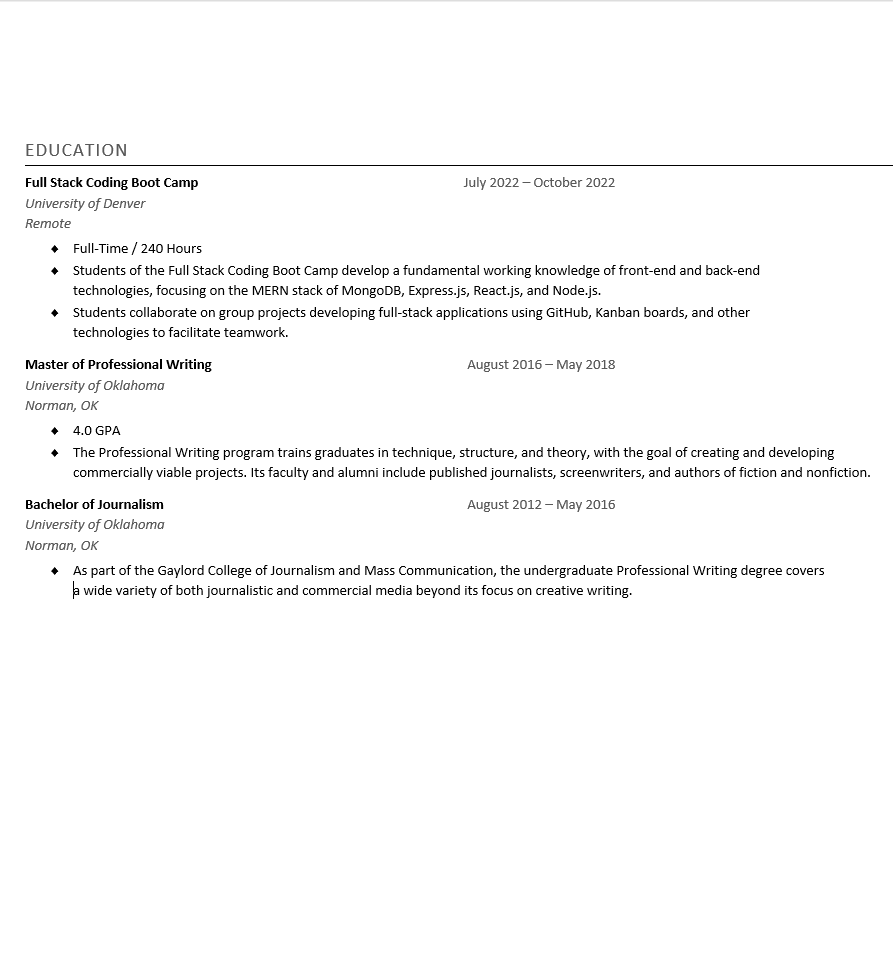
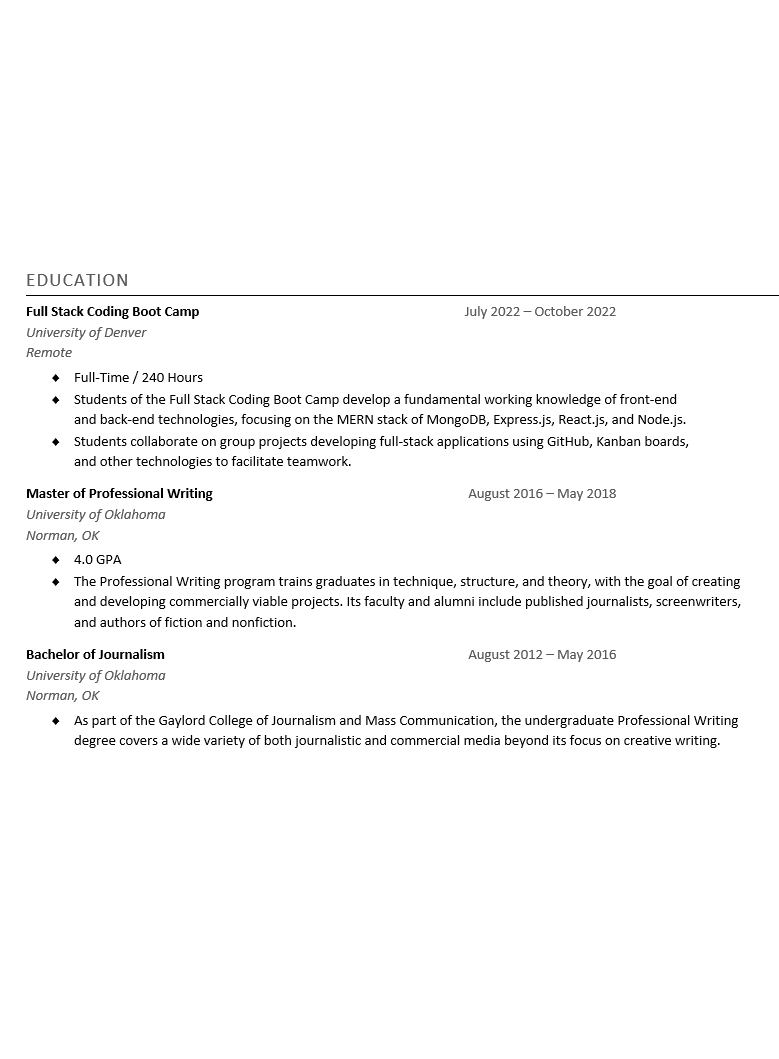
added updated resume pages as images

Changed region(s): [[0.0308, 0.1517, 0.9551, 0.728], [0.5237, 0.182, 0.6778, 0.2123]]

diff --git a/src/components/Resume.js b/src/components/Resume.js
@@ -2,6 +2,8 @@ import React from "react";
 
 // TODO:
 import resume from "../assets/Conner-Martin-Resume.docx";
+import resumeExp from "../assets/resume-experience.png";
+import resumeEdu from "../assets/resume-education.png";
 
 const styles = {
   card: {
@@ -22,6 +24,11 @@ const styles = {
   content: {
     padding: 10,
     textAlign: "center",
+  },
+
+  resumePage: {
+    height: "850px",
+    margin: "5px 10px",
   },
   button: {
     backgroundColor: "#3F4E4F",
@@ -44,9 +51,21 @@ function Resume() {
     <div style={styles.card}>
       <div style={styles.heading}>Resume</div>
       <div style={styles.content}>
+        <div>
+          <img
+            src={resumeExp}
+            alt="resume experience page"
+            style={styles.resumePage}
+          />
+          <img
+            src={resumeEdu}
+            alt="resume educaiton page"
+            style={styles.resumePage}
+          />
+        </div>
         <button style={styles.button}>
           <a href={resume} target="_blank" rel="noreferrer" style={styles.link}>
-            Download Resume
+            Click to Download Resume as Word Doc
           </a>
         </button>
       </div>

diff --git a/src/App.js b/src/App.js
@@ -46,7 +46,8 @@ export default App;
 // pick nicer FONT(s)
 // change tab icon
 
-// make whole app mobile-friendly
+// make app mobile-friendly
+// have navbar, proficiencies stack
 
 // links on projects component to GITHUB PAGES
 
